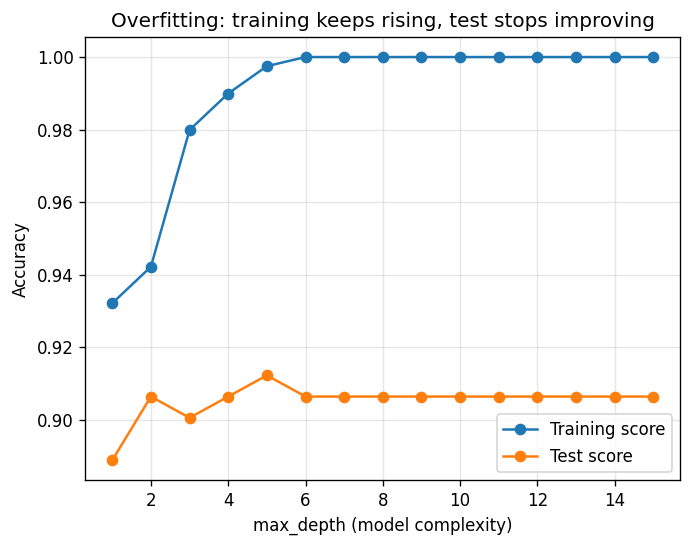
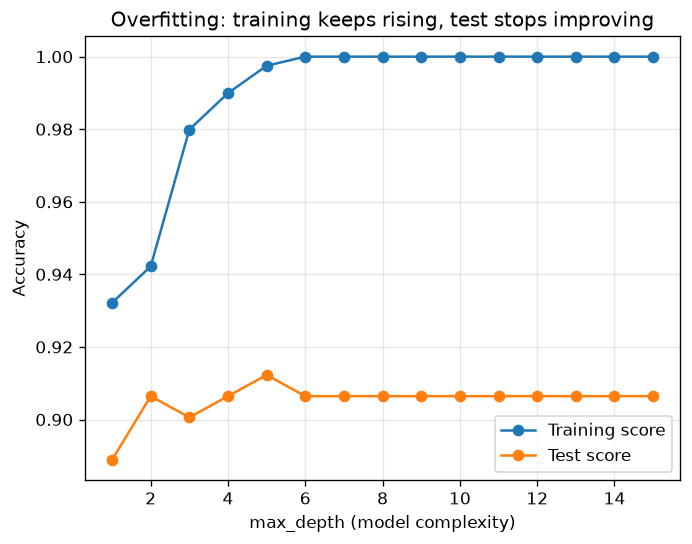
Add day-16-tuning-model

diff --git a/System7-task3/day-16-tuning-model-comparison/practice/q06_tree_depth_overfitting.py b/System7-task3/day-16-tuning-model-comparison/practice/q06_tree_depth_overfitting.py
@@ -1,6 +1,3 @@
-"""Q6 (Medium): Train a decision tree with max_depth from 1 to 15 and plot
-training versus test score to show overfitting.
-"""
 from pathlib import Path
 
 import matplotlib
